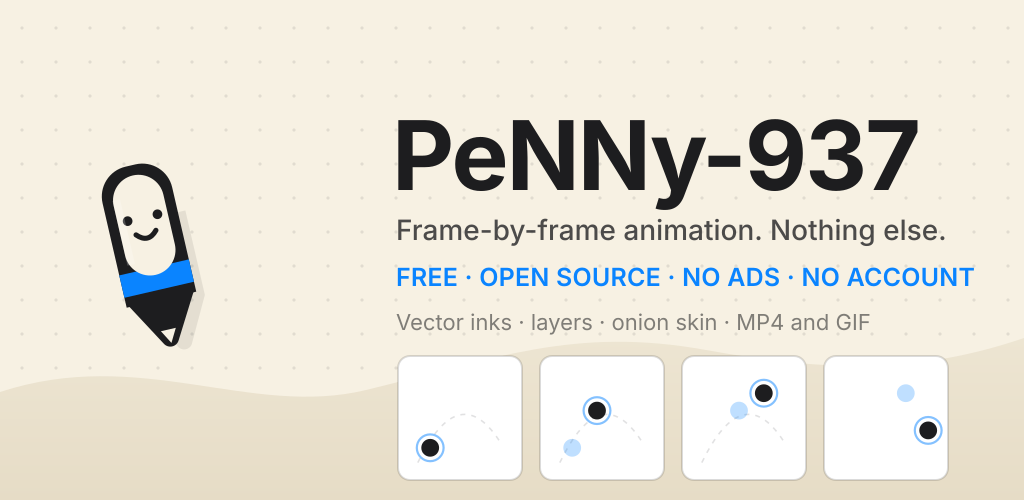
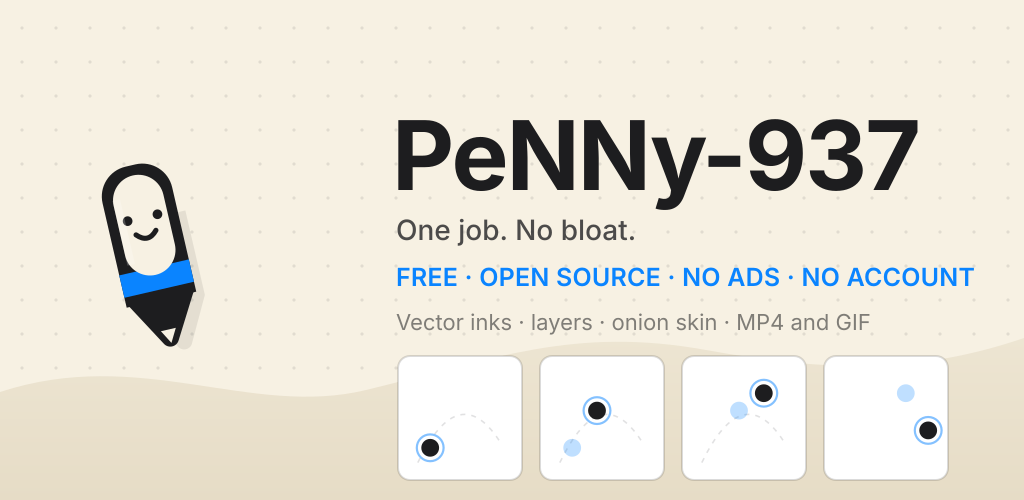
Copy: state facts instead of restating the category; version from BuildConfig; About shows GPL and source link

Changed region(s): [[0.375, 0.42, 0.9375, 0.48]]

diff --git a/app/src/main/kotlin/com/masen/penny937/ui/HomeScreen.kt b/app/src/main/kotlin/com/masen/penny937/ui/HomeScreen.kt
@@ -1,5 +1,6 @@
 package com.masen.penny937.ui
 
+import android.content.Intent
 import android.graphics.Bitmap
 import android.net.Uri
 import androidx.activity.compose.rememberLauncherForActivityResult
@@ -45,6 +46,7 @@ import androidx.compose.runtime.remember
 import androidx.compose.runtime.setValue
 import androidx.compose.ui.Alignment
 import androidx.compose.ui.Modifier
+import androidx.compose.ui.platform.LocalContext
 import androidx.compose.ui.draw.clip
 import androidx.compose.ui.draw.shadow
 import androidx.compose.ui.graphics.Color
@@ -59,6 +61,7 @@ import androidx.compose.ui.unit.dp
 import androidx.compose.ui.unit.sp
 import androidx.compose.foundation.ExperimentalFoundationApi
 import androidx.compose.foundation.layout.imePadding
+import com.masen.penny937.BuildConfig
 import com.masen.penny937.data.ProjectMeta
 import com.masen.penny937.data.ProjectStore
 import com.masen.penny937.model.ProjectFactory
@@ -179,7 +182,7 @@ fun HomeScreen(
                     Hairline()
                     Spacer(Modifier.height(14.dp))
                     Text(
-                        "PeNNy-937 — an offline sketchbook for people who draw frame by frame.",
+                        "Offline. No account, no ads, no network permission.",
                         style = type.caption,
                         color = palette.textTertiary,
                         lineHeight = 17.sp
@@ -239,7 +242,7 @@ private fun HomeHeader(onAbout: () -> Unit) {
             }
             Spacer(Modifier.height(3.dp))
             Text(
-                "Frame-by-frame, by hand.",
+                "Animation. Nothing else.",
                 style = type.label,
                 color = palette.textSecondary
             )
@@ -609,6 +612,7 @@ private fun BoxScope.ProjectActionSheet(
 private fun BoxScope.AboutSheet(visible: Boolean, onDismiss: () -> Unit) {
     val palette = LocalPenny.current
     val type = LocalPennyType.current
+    val context = LocalContext.current
     PennySheet(
         visible = visible,
         onDismiss = onDismiss,
@@ -644,9 +648,29 @@ private fun BoxScope.AboutSheet(visible: Boolean, onDismiss: () -> Unit) {
             Hairline()
             Spacer(Modifier.height(12.dp))
             Text(
-                "Version 1.6 · Made for stylus and patience",
+                "Version ${BuildConfig.VERSION_NAME} · Made for stylus and patience",
                 style = type.caption,
                 color = palette.textTertiary
+            )
+            Spacer(Modifier.height(4.dp))
+            Text(
+                "Free, open source, GPL-3.0. No account, no ads, no network.",
+                style = type.caption,
+                color = palette.textTertiary,
+                textAlign = TextAlign.Center
+            )
+            Spacer(Modifier.height(4.dp))
+            Text(
+                "github.com/Dahl404/PeNNy-937",
+                style = type.caption,
+                color = palette.accent,
+                modifier = Modifier.clickable {
+                    runCatching {
+                        context.startActivity(
+                            Intent(Intent.ACTION_VIEW, Uri.parse("https://github.com/Dahl404/PeNNy-937"))
+                        )
+                    }
+                }
             )
             Spacer(Modifier.height(4.dp))
             Text(

diff --git a/docs/privacy.html b/docs/privacy.html
@@ -22,7 +22,7 @@
 <h1>PeNNy-937 — Privacy Policy</h1>
 <p class="meta">Last updated: 23 November 2026</p>
 
-<p>PeNNy-937 is a frame-by-frame animation app for Android, published by Dahl404
+<p>PeNNy-937 is an animation app for Android, published by Dahl404
 (“the app”, “we”). This policy explains what the app does with your information.
 In short: <strong>it collects nothing and sends nothing anywhere.</strong></p>
 

diff --git a/store/privacy.html b/store/privacy.html
@@ -22,7 +22,7 @@
 <h1>PeNNy-937 — Privacy Policy</h1>
 <p class="meta">Last updated: 23 November 2026</p>
 
-<p>PeNNy-937 is a frame-by-frame animation app for Android, published by Dahl404
+<p>PeNNy-937 is an animation app for Android, published by Dahl404
 (“the app”, “we”). This policy explains what the app does with your information.
 In short: <strong>it collects nothing and sends nothing anywhere.</strong></p>
 

diff --git a/store/make_assets.py b/store/make_assets.py
@@ -67,7 +67,7 @@ feature = f'''<svg xmlns="http://www.w3.org/2000/svg" width="1024" height="500" 
 <g transform="translate(150,250) scale(2.55) translate(-54,-56)">{pen(1.0)}</g>
 <text x="392" y="190" font-family="{FONT}" font-size="96" font-weight="700" fill="#1D1D1F"
       letter-spacing="-2">PeNNy-937</text>
-<text x="396" y="240" font-family="{FONT}" font-size="28" font-weight="500" fill="#1D1D1F" fill-opacity="0.78">Frame-by-frame animation. Nothing else.</text>
+<text x="396" y="240" font-family="{FONT}" font-size="28" font-weight="500" fill="#1D1D1F" fill-opacity="0.78">One job. No bloat.</text>
 <text x="396" y="286" font-family="{FONT}" font-size="25" font-weight="600" fill="#0A84FF" letter-spacing="0.2">FREE · OPEN SOURCE · NO ADS · NO ACCOUNT</text>
 <text x="396" y="330" font-family="{FONT}" font-size="22" font-weight="400" fill="#1D1D1F" fill-opacity="0.55">Vector inks · layers · onion skin · MP4 and GIF</text>
 {frames(398, 356, 124, 18)}

diff --git a/README.md b/README.md
@@ -1,6 +1,6 @@
 # PeNNy-937
 
-A frame-by-frame animation app for Android. Requires Android 8.0 (API 26) or newer.
+Animation app for Android. Requires Android 8.0 (API 26) or newer.
 
 Free and open source under the GPL-3.0 (see `LICENSE`). No ads, no account, no
 purchases, no analytics, and no `INTERNET` permission — the app is technically
